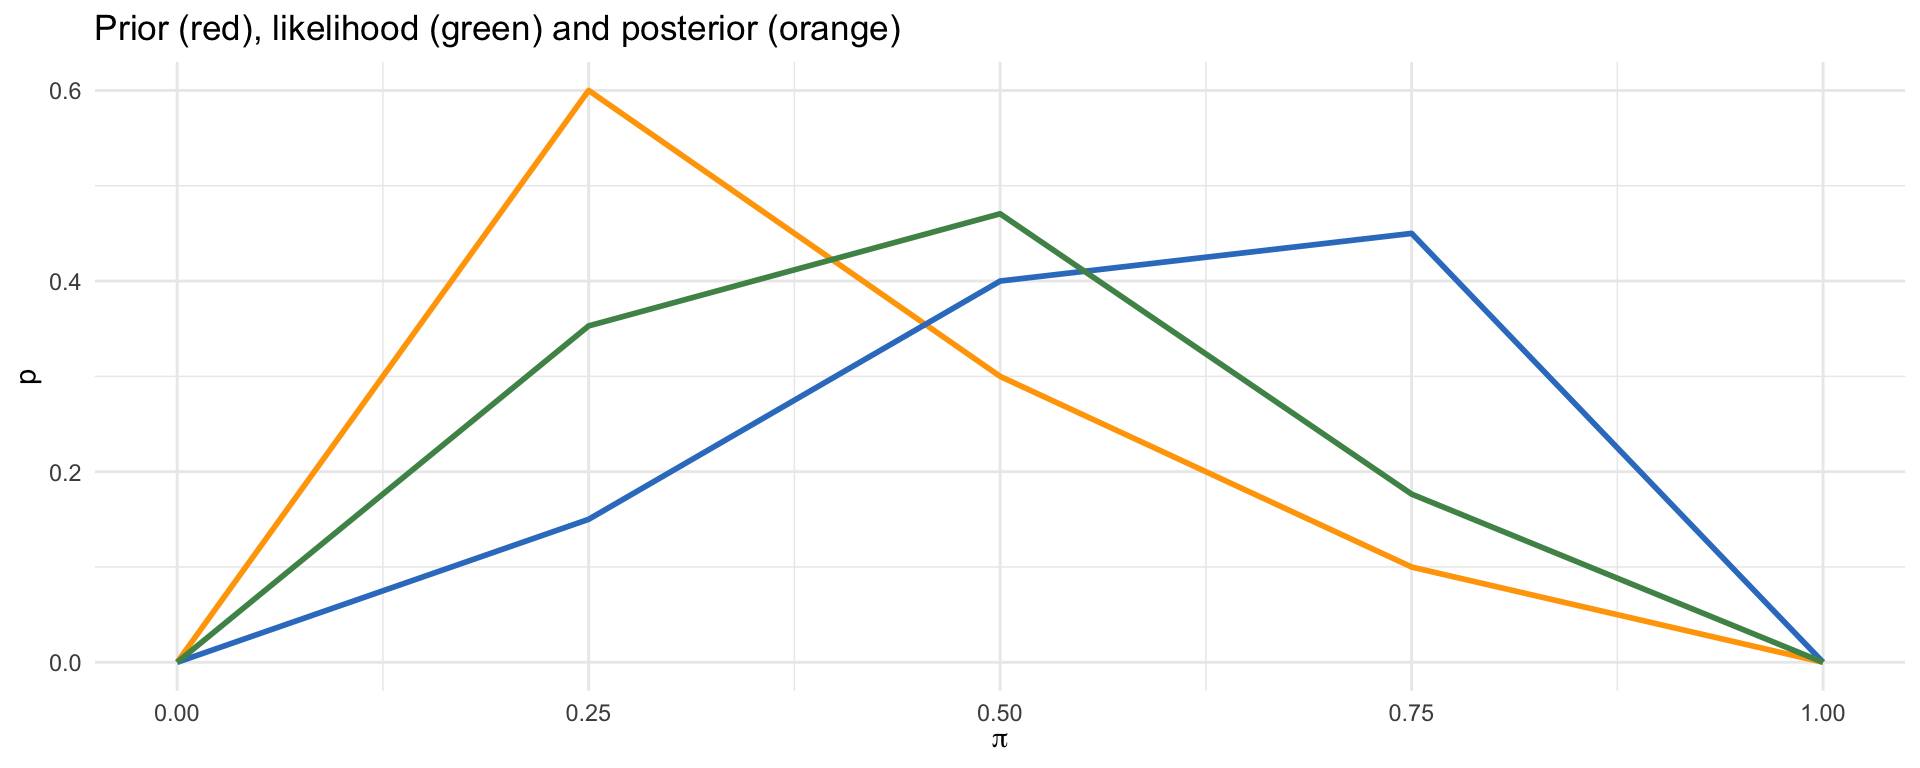
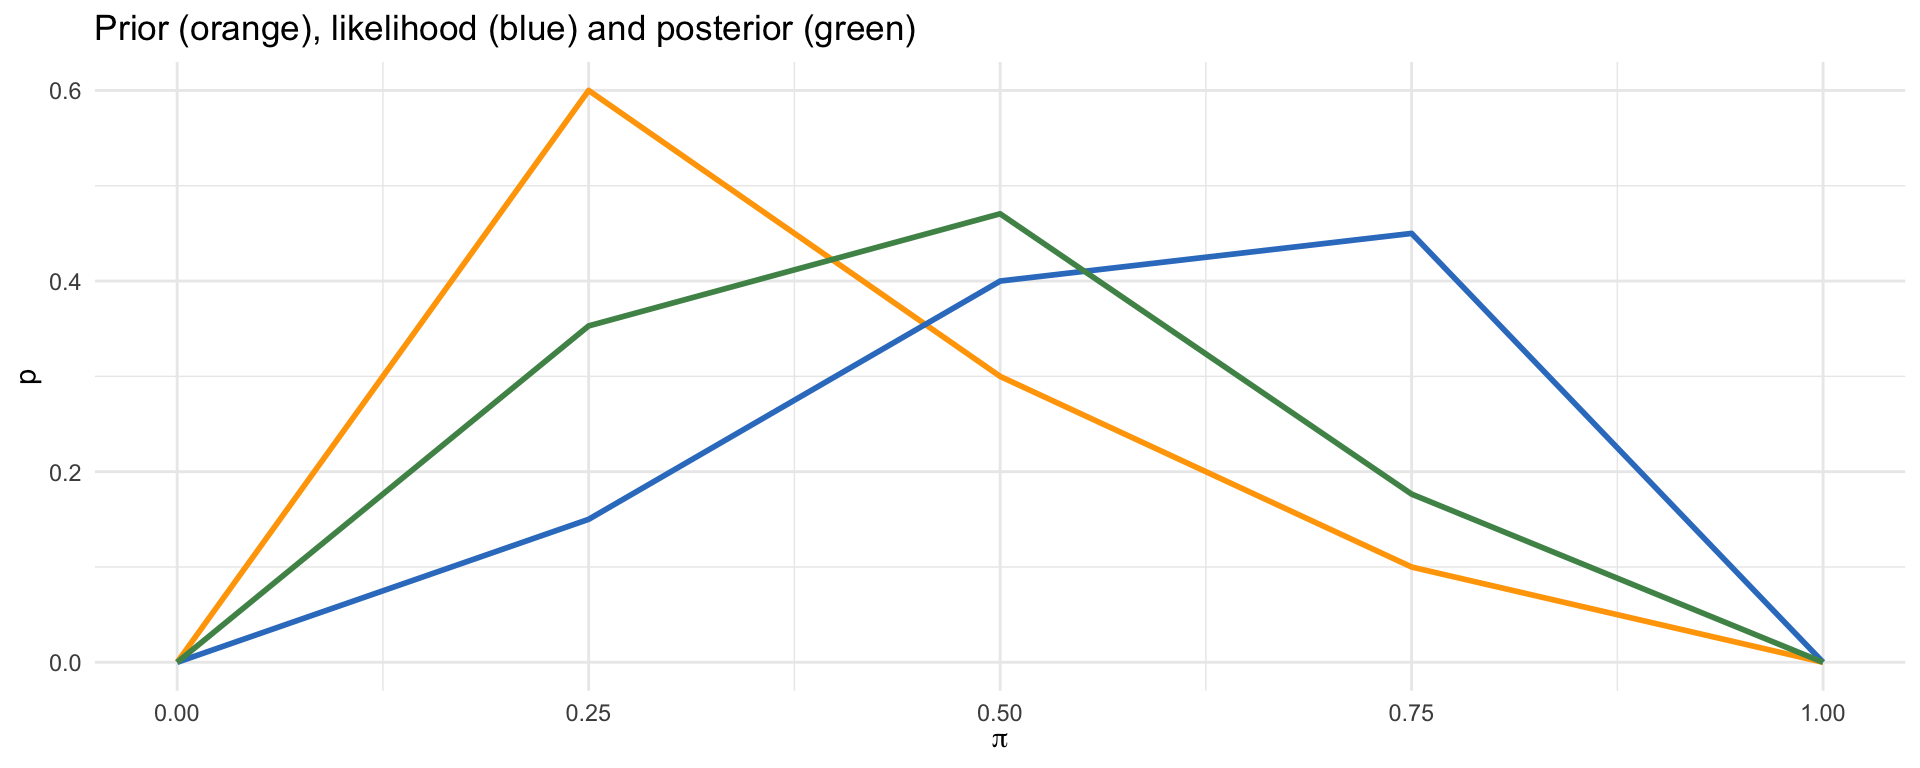
Minor fixes

Changed region(s): [[0.0938, 0.0, 0.4688, 0.0625]]

diff --git a/lectures/bayesian_inference_workflow/index.html b/lectures/bayesian_inference_workflow/index.html
@@ -1378,7 +1378,7 @@ p(x, n \mid \pi) = \binom{n}{x}\pi^x(1-\pi)^{n-x}
 <span id="cb9-8"><a href=""></a>  <span class="fu">gf_line</span>(prior <span class="sc">~</span> π, <span class="at">color =</span> <span class="st">"#FFA500"</span>, <span class="at">linewidth =</span> <span class="dv">1</span>) <span class="sc">%&gt;%</span></span>
 <span id="cb9-9"><a href=""></a>  <span class="fu">gf_line</span>(likelihood.norm <span class="sc">~</span> π, <span class="at">color =</span> <span class="st">"#357EC7"</span>, <span class="at">linewidth =</span> <span class="dv">1</span>) <span class="sc">%&gt;%</span></span>
 <span id="cb9-10"><a href=""></a>  <span class="fu">gf_line</span>(posterior <span class="sc">~</span> π, <span class="at">color =</span> <span class="st">"#4E9258"</span>, <span class="at">linewidth =</span> <span class="dv">1</span>) <span class="sc">%&gt;%</span></span>
-<span id="cb9-11"><a href=""></a>  <span class="fu">gf_labs</span>(<span class="at">x =</span> <span class="fu">expression</span>(pi), <span class="at">y =</span> <span class="st">"p"</span>, <span class="at">title =</span> <span class="st">"Prior (red), likelihood (green) and posterior (orange)"</span>)</span></code><button title="Copy to Clipboard" class="code-copy-button"><i class="bi"></i></button></pre></div>
+<span id="cb9-11"><a href=""></a>  <span class="fu">gf_labs</span>(<span class="at">x =</span> <span class="fu">expression</span>(pi), <span class="at">y =</span> <span class="st">"p"</span>, <span class="at">title =</span> <span class="st">"Prior (orange), likelihood (blue) and posterior (green)"</span>)</span></code><button title="Copy to Clipboard" class="code-copy-button"><i class="bi"></i></button></pre></div>
 </div>
 <div class="cell fragment">
 <div class="cell-output-display">
@@ -1413,7 +1413,7 @@ p(x, n \mid \pi) = \binom{n}{x}\pi^x(1-\pi)^{n-x}
 <span id="cb10-8"><a href=""></a>  <span class="fu">gf_line</span>(prior <span class="sc">~</span> π, <span class="at">color =</span> <span class="st">"#FFA500"</span>, <span class="at">linewidth =</span> <span class="dv">1</span>) <span class="sc">%&gt;%</span></span>
 <span id="cb10-9"><a href=""></a>  <span class="fu">gf_line</span>(likelihood.norm <span class="sc">~</span> π, <span class="at">color =</span> <span class="st">"#357EC7"</span>, <span class="at">linewidth =</span> <span class="dv">1</span>) <span class="sc">%&gt;%</span></span>
 <span id="cb10-10"><a href=""></a>  <span class="fu">gf_line</span>(posterior <span class="sc">~</span> π, <span class="at">color =</span> <span class="st">"#4E9258"</span>, <span class="at">linewidth =</span> <span class="dv">1</span>) <span class="sc">%&gt;%</span></span>
-<span id="cb10-11"><a href=""></a>  <span class="fu">gf_labs</span>(<span class="at">x =</span> <span class="fu">expression</span>(pi), <span class="at">y =</span> <span class="st">"p"</span>, <span class="at">title =</span> <span class="st">"Prior (red), likelihood (green) and posterior (orange)"</span>)</span></code><button title="Copy to Clipboard" class="code-copy-button"><i class="bi"></i></button></pre></div>
+<span id="cb10-11"><a href=""></a>  <span class="fu">gf_labs</span>(<span class="at">x =</span> <span class="fu">expression</span>(pi), <span class="at">y =</span> <span class="st">"p"</span>, <span class="at">title =</span> <span class="st">"Prior (orange), likelihood (blue) and posterior (green)"</span>)</span></code><button title="Copy to Clipboard" class="code-copy-button"><i class="bi"></i></button></pre></div>
 </div>
 <div class="cell fragment">
 <div class="cell-output-display">
